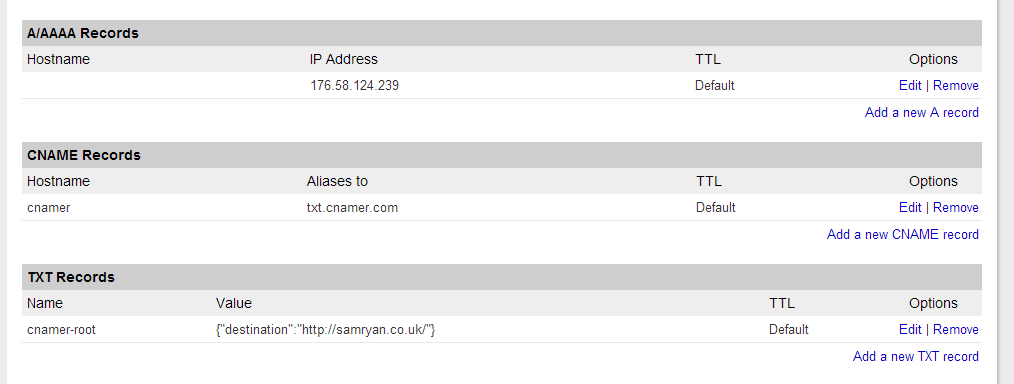
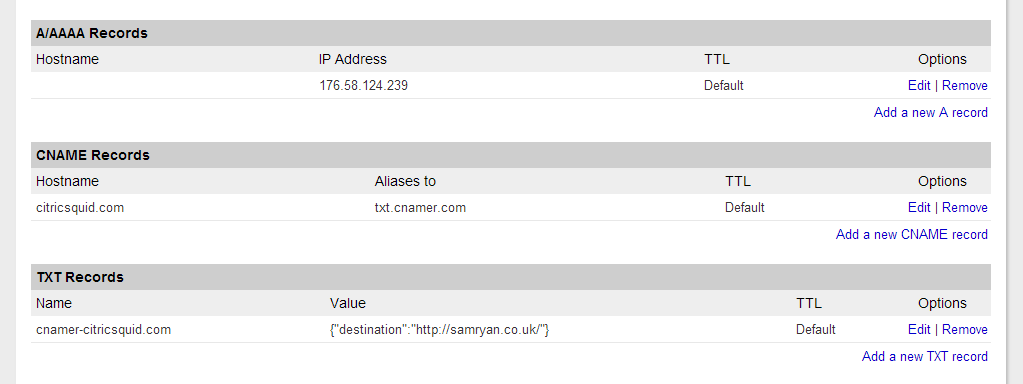
corrected documentation error for A records

diff --git a/static/index.php b/static/index.php
@@ -144,7 +144,7 @@ foreach(array("redirect", "domain") as $type) {
         <code>
             <span class="code-sub">A</span> <?php echo CNAMER_DEMO; ?>. IN A <?php echo CNAMER_IP; ?>
             <br/>
-            <span class="code-sub">CNAME</span> <?php echo CNAMER_DEMO; ?>.<?php echo CNAMER_DEMO; ?>. CNAME example.org.<?php echo CNAMER_DOMAIN; ?>
+            <span class="code-sub">CNAME</span> cnamer-<?php echo CNAMER_DEMO; ?>. CNAME example.org.<?php echo CNAMER_DOMAIN; ?>
         </code>
         <h1 id="options">2.<a href="#options">Options</a></h1>
         <p>
